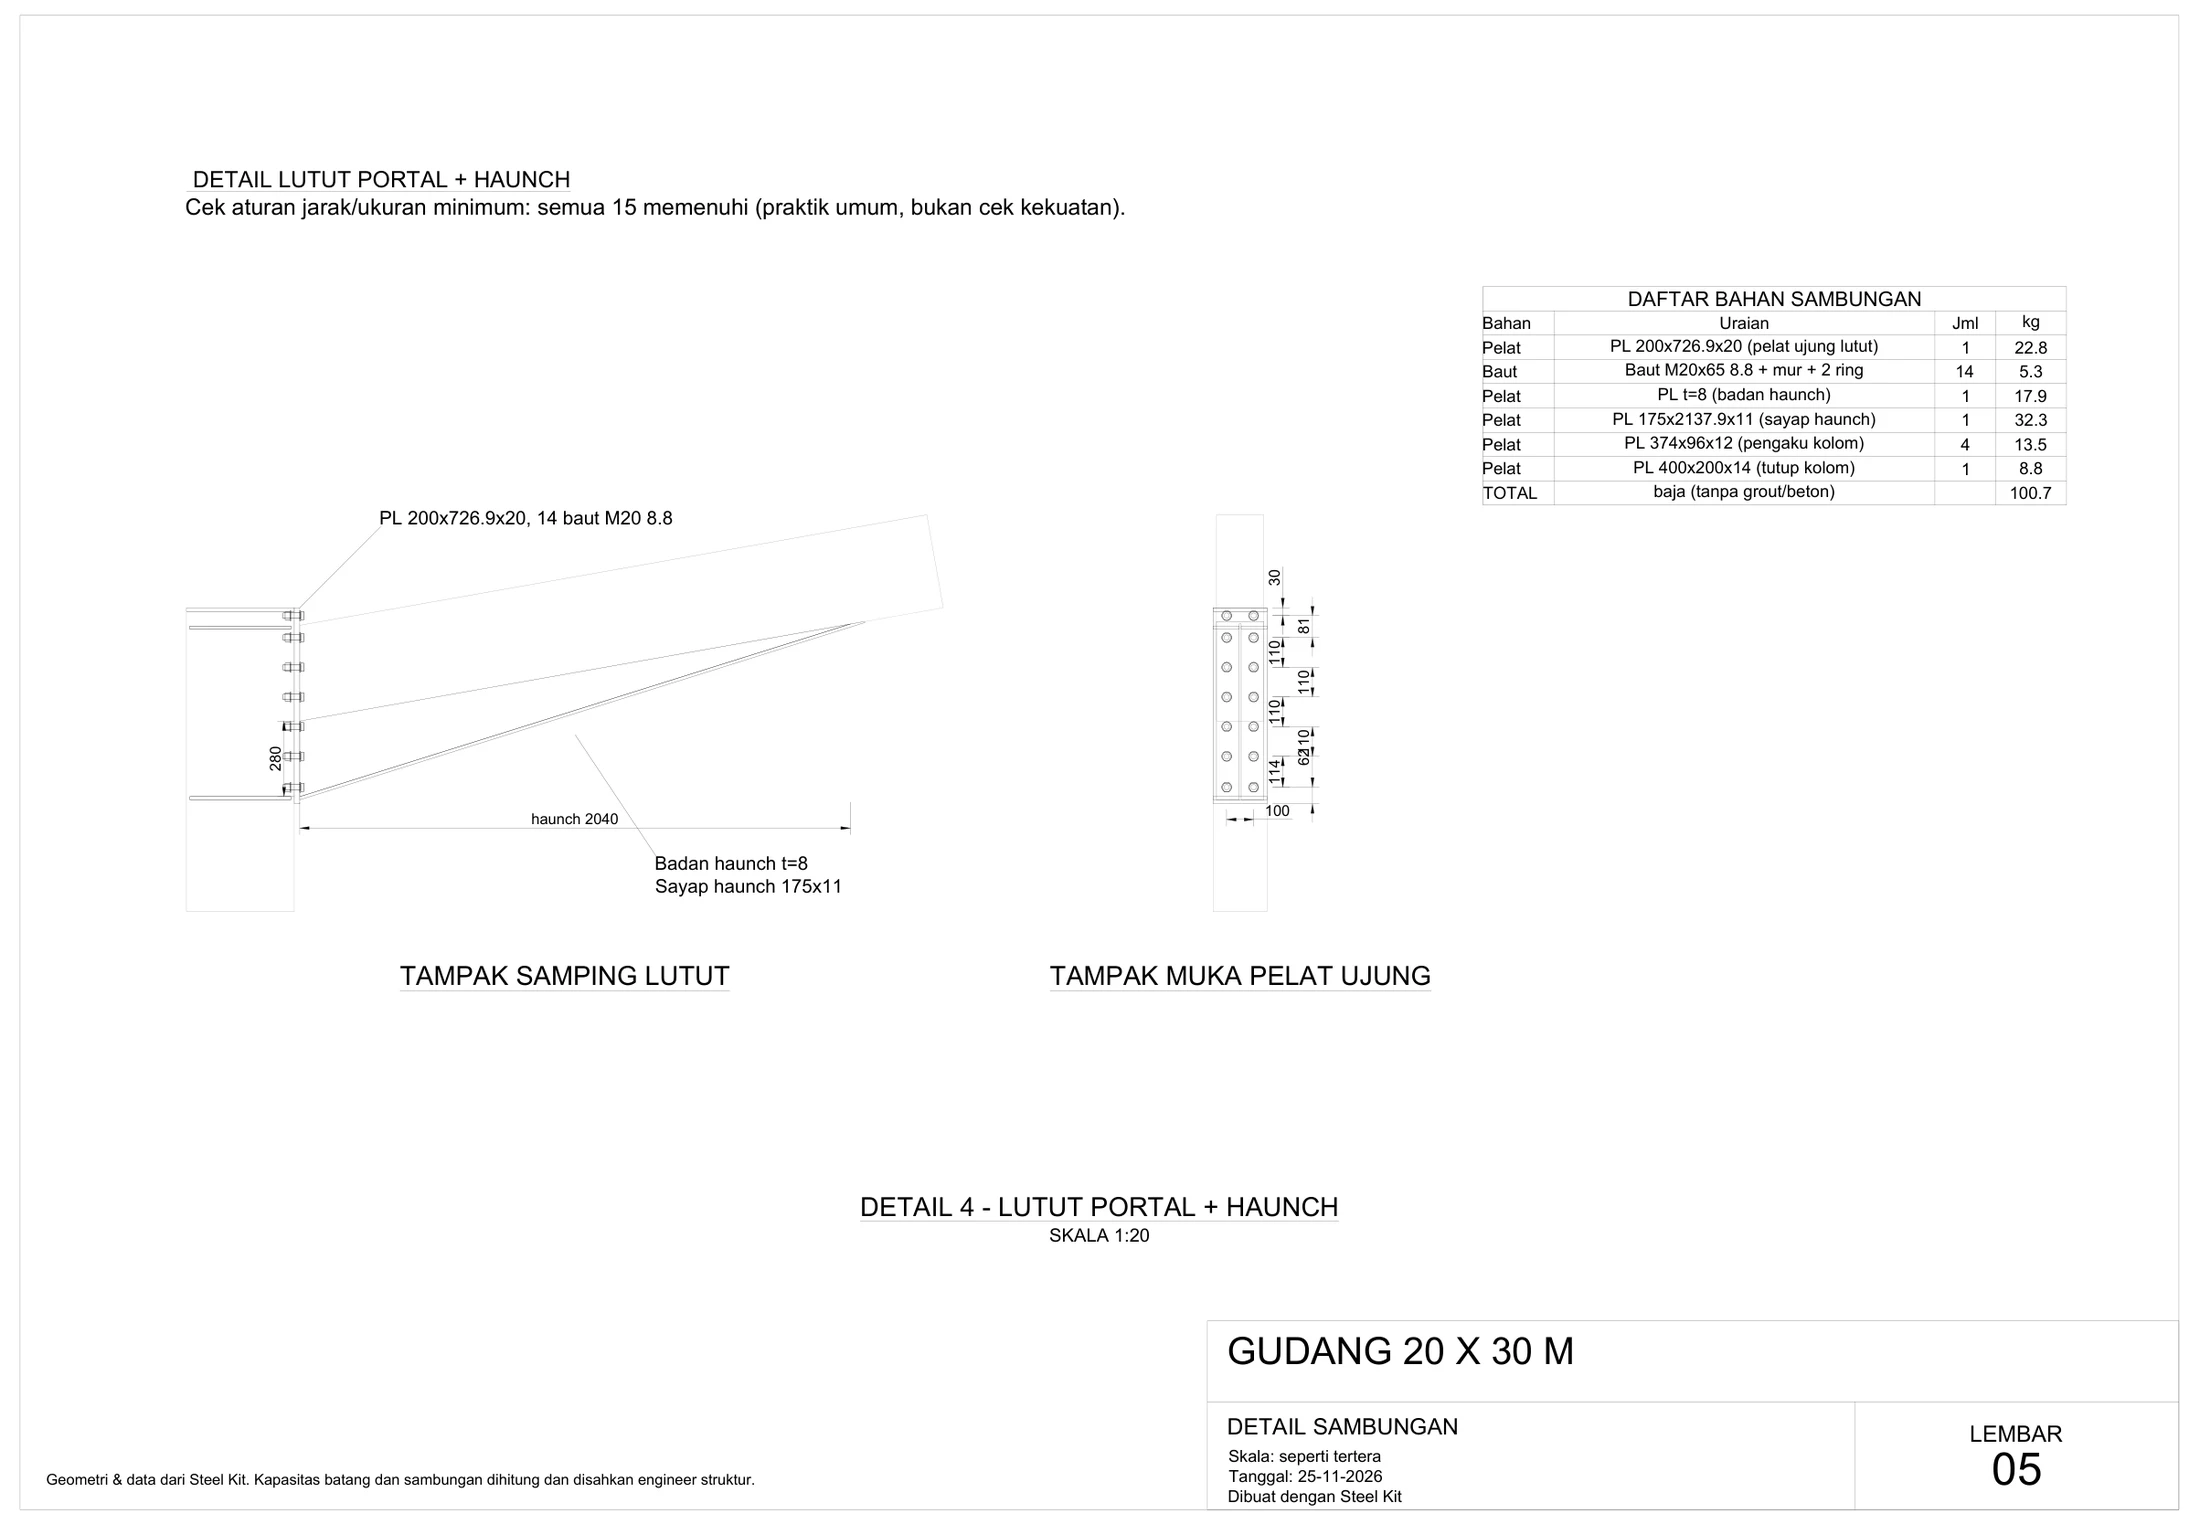
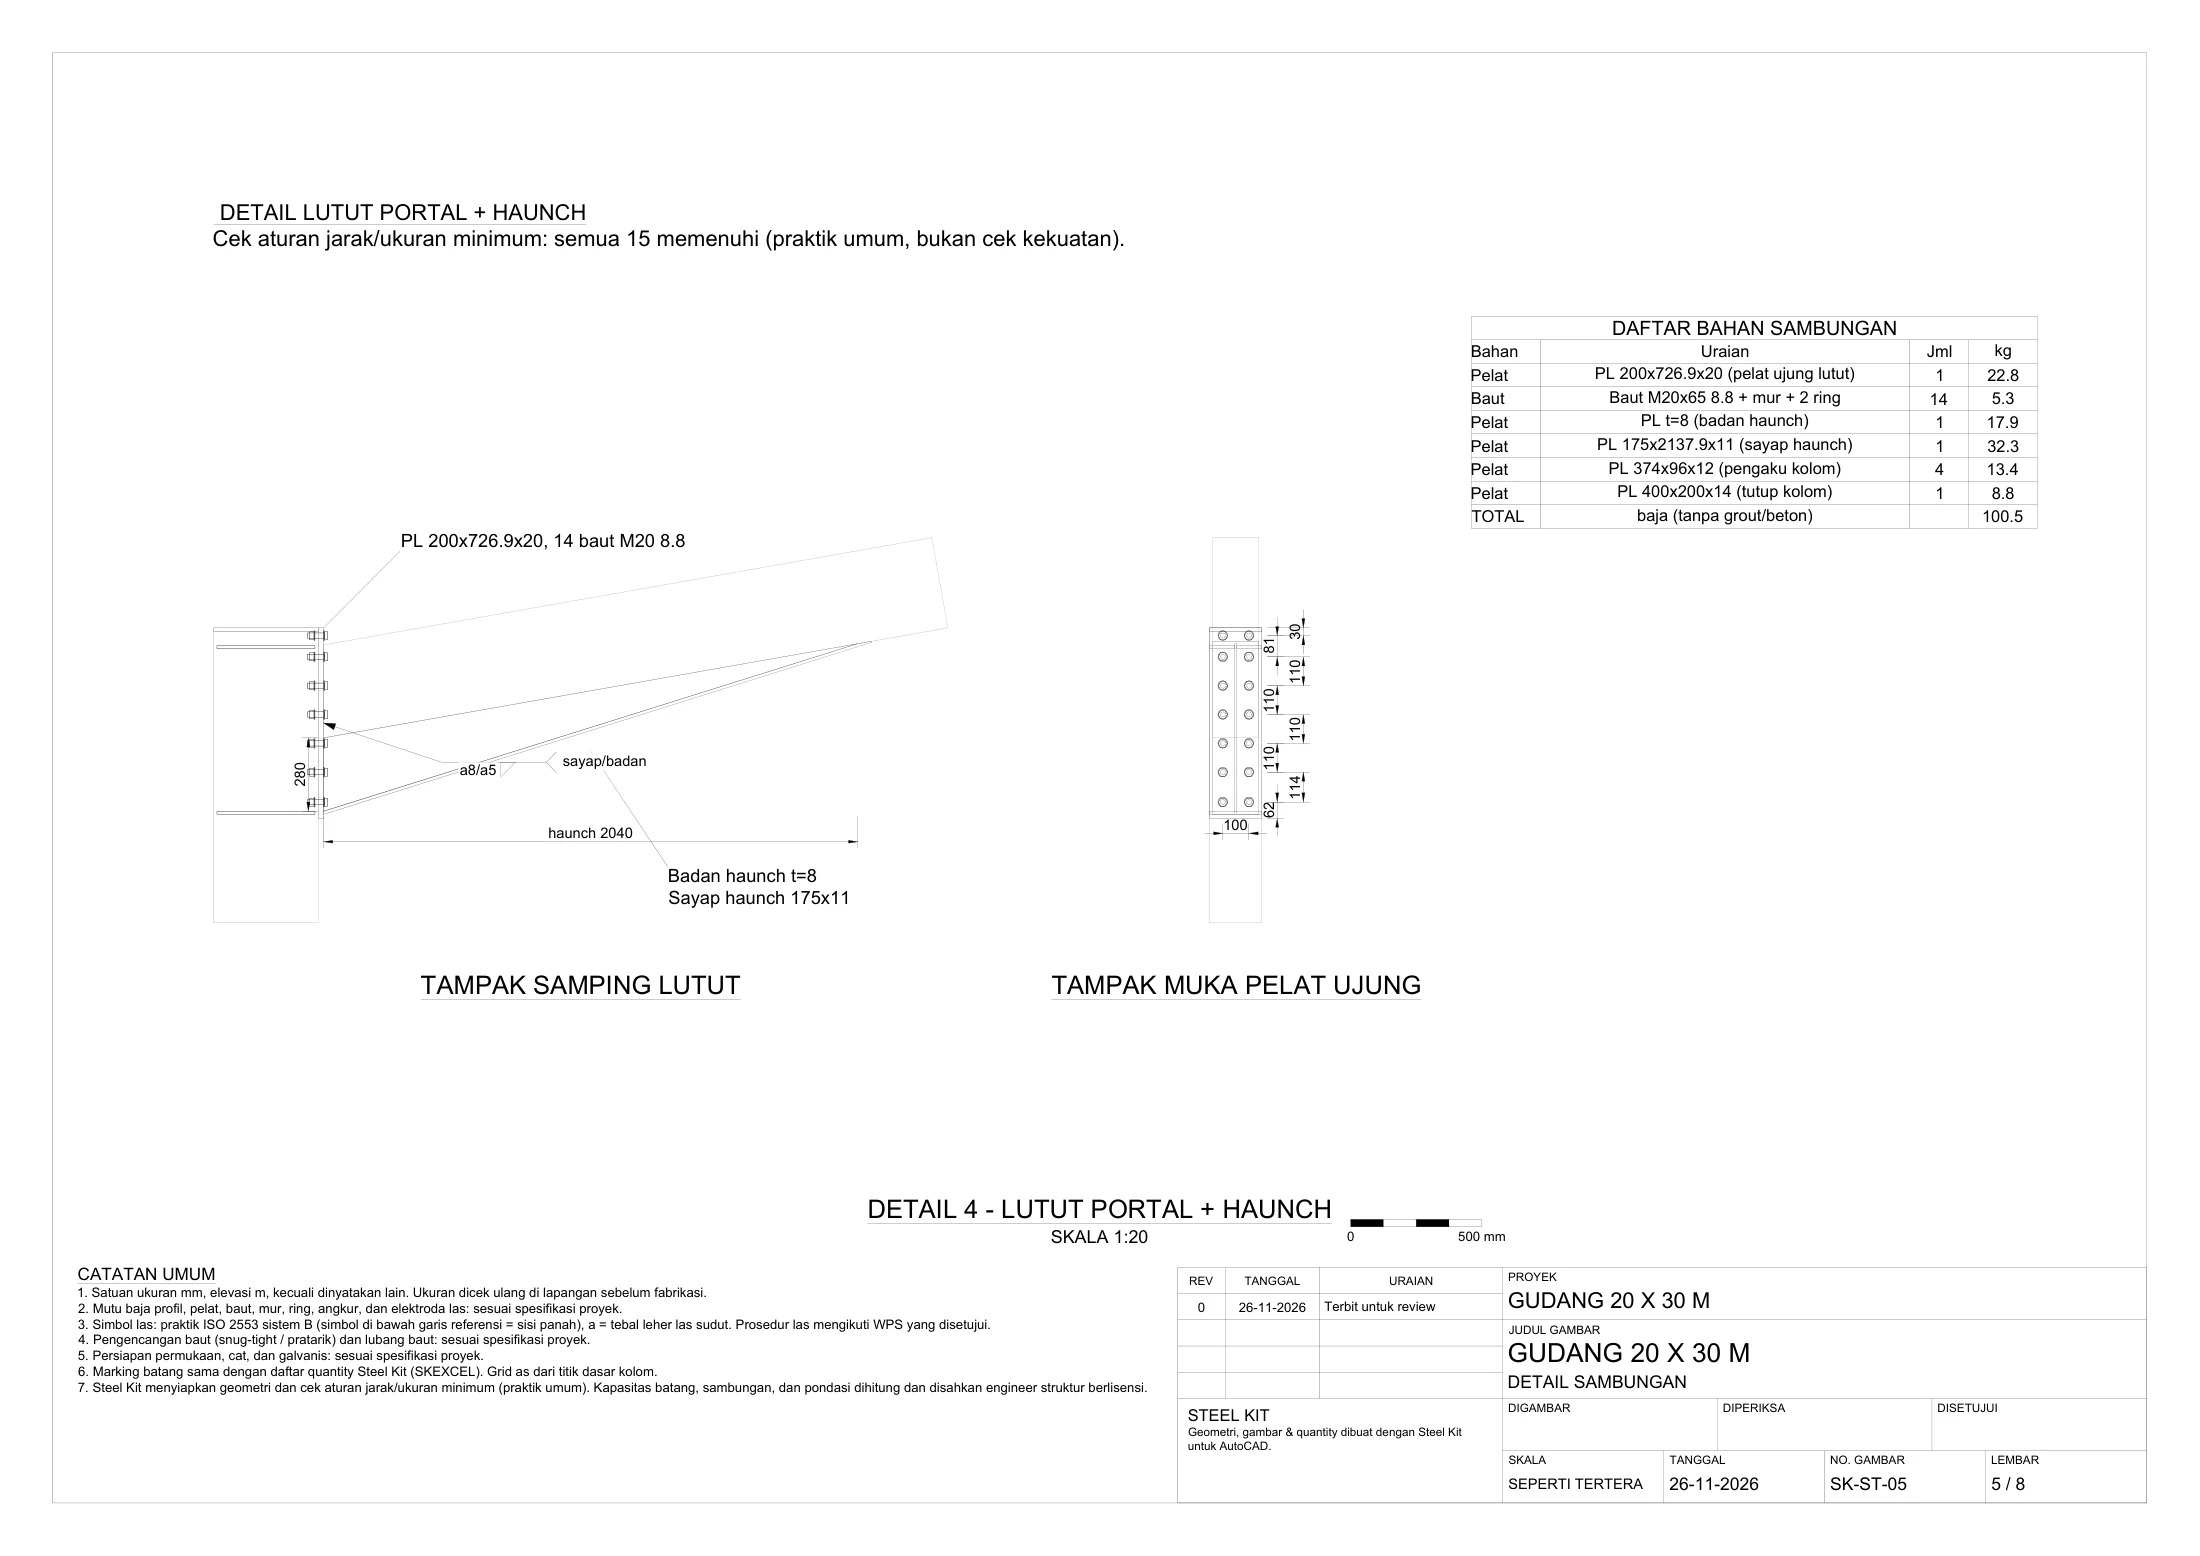
Steel Kit page: fabrication sheets, clash-free model, new drawing images
Add the fabrication sheet painting with numbered notes, refresh the
structure and connection-detail sheets (grid, levels, marks, weld
symbols), and update the feature text.

diff --git a/docs/steelkit/steelkit.js b/docs/steelkit/steelkit.js
@@ -460,7 +460,7 @@ function bannerTexture() {
 }
 
 // ------------------------------------------------------------------ lukisan (gambar fitur) + keterangannya
-const PAPER = new Set(['layout_struktur', 'layout_detail']);
+const PAPER = new Set(['layout_struktur', 'layout_detail', 'fabrikasi']);
 function drawShot(ctx, img, name, x, y, w, h) {
   ctx.save();
   if (PAPER.has(name)) ctx.filter = 'invert(1) hue-rotate(185deg) sepia(.25) brightness(.92)';
@@ -490,12 +490,19 @@ const CARDS = [
     notes: [[12, 50, 'Pilih jenis profil dan ukurannya (476 ukuran bawaan).'], [46, 44, 'Gambar penampang dengan dimensi dan titik berat.'],
       [84, 20, 'Dimensi bisa diubah; nama profil ikut otomatis.'], [84, 60, 'Properti dihitung langsung: luas, berat, Ix, Sx, Zx, dan lainnya.'],
       [92, 96, 'Gambar batang 3D/2D, penampang, atau tabel properti.']] },
-  { img: 'layout_struktur', title: 'Lembar struktur otomatis', lead: 'Satu perintah menghasilkan lembar A3 berisi isometrik, denah, dan tampak, lengkap dengan dimensi dan leader.',
-    notes: [[26, 22, 'Isometrik dengan garis tersembunyi.'], [74, 22, 'Denah: jarak portal, nama profil, dan bracing.'],
-      [26, 61, 'Tampak depan: bentang, tinggi, dan rafter.'], [74, 61, 'Tampak samping: jarak bay dan bracing dinding.'], [77, 91, 'Kotak judul: nama proyek, lembar, tanggal.']] },
-  { img: 'layout_detail', title: 'Lembar detail sambungan', lead: 'Setiap jenis sambungan mendapat lembar detail berskala dengan daftar bahan.',
-    notes: [[30, 13, 'Nama detail dan hasil cek jarak/ukuran minimum.'], [25, 47, 'Tampak samping lutut: pelat ujung, baut, haunch.'],
-      [56, 47, 'Tampak muka pelat: jarak baut berdimensi.'], [81, 26, 'Daftar bahan: pelat, baut, berat (kg).'], [77, 91, 'Kotak judul lembar.']] },
+  { img: 'layout_struktur', title: 'Lembar struktur otomatis', lead: 'Satu perintah menghasilkan lembar A3 berisi isometrik, denah, dan tampak: grid as, elevasi, marking, catatan umum, dan kotak judul lengkap.',
+    notes: [[26, 22, 'Isometrik dengan garis tersembunyi.'], [67, 10, 'Grid as A–B dan 1–6 dari titik dasar kolom, dengan dimensi antar as.'],
+      [18, 56, 'Marking batang sama dengan daftar Excel, mis. C1–C6 WF400.'], [43, 54, 'Penanda elevasi: ±0.000 dasar kolom sampai puncak rangka.'],
+      [72, 62, 'Tampak samping: jarak bay dan bracing dinding.'], [16, 87, 'Catatan umum: mutu dan prosedur ditulis sesuai spesifikasi proyek.'],
+      [78, 91, 'Kotak judul: proyek, no. gambar, lembar x/n, revisi, penanggung jawab.']] },
+  { img: 'layout_detail', title: 'Lembar detail sambungan', lead: 'Setiap jenis sambungan mendapat lembar detail berskala dengan simbol las dan daftar bahan.',
+    notes: [[22, 14, 'Nama detail dan hasil cek jarak/ukuran minimum.'], [22, 44, 'Tampak samping lutut: pelat ujung, baut, haunch.'],
+      [27, 50, 'Simbol las: ukuran leher a8/a5 untuk sayap dan badan.'], [57, 47, 'Tampak muka pelat: jarak baut berdimensi, angka tidak bertumpuk.'],
+      [81, 27, 'Daftar bahan: pelat, baut, berat (kg).'], [78, 91, 'Kotak judul lembar.']] },
+  { img: 'fabrikasi', title: 'Gambar fabrikasi per marking', lead: 'Satu lembar untuk tiap marking batang, siap dibawa ke bengkel: posisi lubang, panjang potong, dan jumlahnya.',
+    notes: [[33, 19, 'Tampak samping dari batang sebenarnya: lubang lonjong rod ikut terlihat.'], [40, 54, 'Lubang baut dari ujung kiri; jarak sama digabung 4x110=440.'],
+      [80, 17, 'Data marking: profil, jumlah, panjang potong, berat.'], [78, 46, 'Daftar lubang: koordinat setiap lubang untuk bengkel.'],
+      [78, 91, 'Nomor gambar SK-FB per marking.']] },
   { img: 'installer', title: 'Pasang sekali klik', lead: 'Penginstal ±2 MB, tanpa hak admin. Mendeteksi AutoCAD 2021–2027 dan bisa sekalian memasang suara offline.',
     notes: [[18, 18, 'Logo dan versi yang terpasang.'], [50, 40, 'Versi AutoCAD yang ditemukan di komputer Anda.'], [80, 90, 'Klik Pasang. Selesai.']] },
 ];
@@ -533,7 +540,8 @@ const SLIDES = [
   { img: 'potongan_rapat', cap: 'Batang miring dipotong tegak rapat ke pelat' },
   { img: 'lutut_puncak_3d', cap: 'Model 3D lengkap: lutut, puncak, gording, bracing' },
   { img: 'layout_struktur', cap: 'Layout otomatis berdimensi dan berleader' },
-  { img: 'layout_detail', cap: 'Lembar detail sambungan dengan daftar bahan' },
+  { img: 'layout_detail', cap: 'Lembar detail sambungan dengan simbol las dan daftar bahan' },
+  { img: 'fabrikasi', cap: 'Gambar fabrikasi per marking, lengkap dengan daftar lubang' },
   { img: 'installer', cap: 'Pasang sekali klik · AutoCAD 2021–2027 · gratis' },
 ];
 const slideImgs = SLIDES.map(s => { const im = new Image(); im.src = 'img/' + s.img + '.webp'; return im; });

diff --git a/docs/steelkit/index.html b/docs/steelkit/index.html
@@ -85,8 +85,8 @@
         <div class="facts">
           <div class="fact"><h3>Asisten berbahasa Indonesia</h3><p>Ketik atau bicara. Usulan batang diperiksa dulu sebelum dipasang. Suara diproses di laptop Anda.</p></div>
           <div class="fact"><h3>28 jenis sambungan</h3><p>Pelat dasar, pelat ujung, haunch, bracing, truss. Dipilih lewat gambar teknik, dicek jarak & ukuran minimumnya.</p></div>
-          <div class="fact"><h3>Potongan rapat</h3><p>Batang miring dipotong tegak rapat ke pelat: lutut, puncak, kolom angin. Tidak menembus, tidak bercelah.</p></div>
-          <div class="fact"><h3>Gambar kerja & Excel</h3><p>Layout berdimensi, detail sambungan, daftar bahan, dan quantity takeoff metrik. 476 profil bisa diubah.</p></div>
+          <div class="fact"><h3>Rapat & bebas tabrakan</h3><p>Batang miring dipotong tegak rapat ke pelat, baut mengebor lubangnya di batang, dan cek tabrakan 3D memastikan tidak ada yang saling menembus.</p></div>
+          <div class="fact"><h3>Gambar kerja, fabrikasi & Excel</h3><p>Layout dengan grid, elevasi & marking, detail dengan simbol las, gambar fabrikasi per marking, dan quantity Excel metrik.</p></div>
         </div>
         <p class="fine">Klik lukisan di sebelah kanan untuk melihatnya satu layar penuh, lengkap dengan keterangan.</p>
       </div>
@@ -98,7 +98,7 @@
       <div class="panel right reveal sk-panel">
         <h2 class="gold">Video Pengenalan</h2>
         <div class="rule" aria-hidden="true"></div>
-        <p>Cermin di atas meja memutar alurnya: bicara, periksa usulan, sambungan otomatis, model 3D, sampai lembar kerja.</p>
+        <p>Cermin di atas meja memutar alurnya: bicara, periksa usulan, sambungan otomatis, model 3D, lembar kerja, sampai gambar fabrikasi.</p>
         <p class="sk-gap"><button class="btn gem" id="playDemo" type="button">Putar layar penuh</button></p>
       </div>
     </div>
